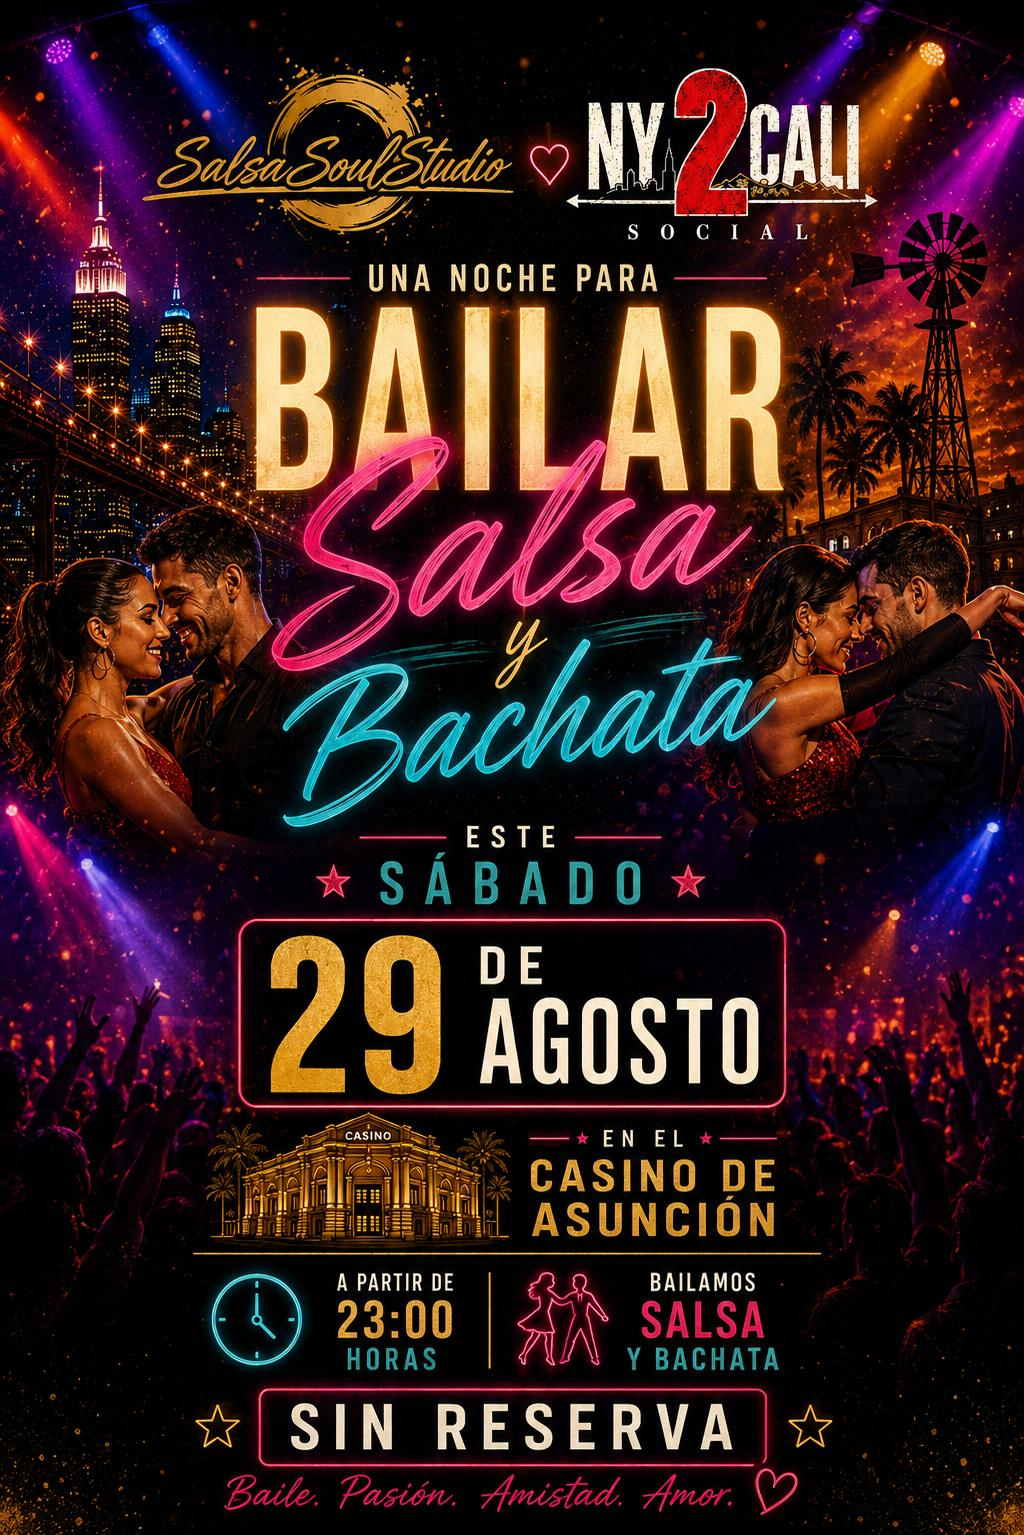
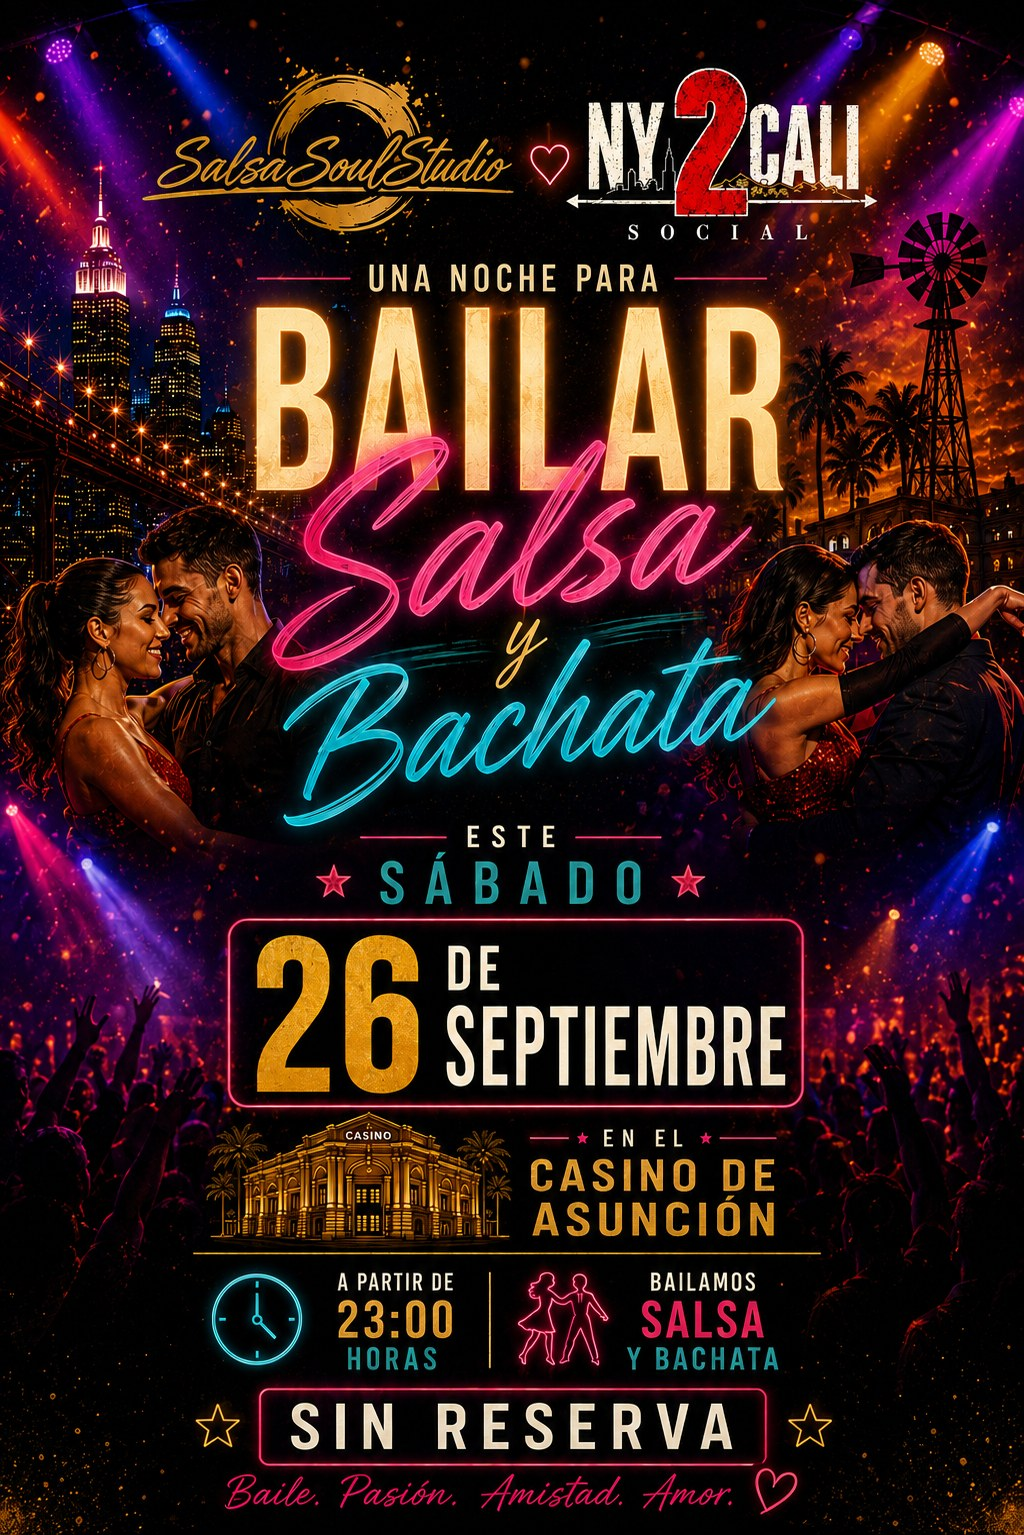
feat(sociales): afiche del social del sabado 26 de septiembre
Reemplaza el del 29 de agosto en el home y en /sociales, con el ?v= subido a 6
para saltar la cache de una semana de las imagenes. Fecha verificada: el 26/09
cae sabado.

El evento ya existia en la tabla SOCIALES pero con TIPO_VENTA vacio, y
airtable_client lo lee como 'MESA' por defecto: Dorita habria ofrecido reservar
mesa para un social que el afiche anuncia SIN RESERVA. Quedo en LIBRE, igual que
el del 29/08.

diff --git a/index.html b/index.html
@@ -410,10 +410,10 @@
   <div class="festival-wrapper" id="sociales">
     <div class="festival-inner">
       <div class="festival-poster" onclick="openLightbox(this)">
-        <img src="/sociales/ny2cali.jpg?v=5" alt="Social NY2CALI — Sábado 29 de agosto, Casino de Asunción" loading="lazy">
+        <img src="/sociales/ny2cali.jpg?v=6" alt="Social NY2CALI — Sábado 26 de septiembre, Casino de Asunción" loading="lazy">
       </div>
       <div class="festival-info">
-        <span class="badge">Sábado 29 de Agosto</span>
+        <span class="badge">Sábado 26 de Septiembre</span>
         <h2>Social NY2CALI</h2>
         <p class="fecha">Casino de Asunción · 23:00 hs</p>
         <div class="detalles">

diff --git a/sociales/index.html b/sociales/index.html
@@ -108,7 +108,7 @@
   <div class="hero">
     <h1>Sociales NY2CALI</h1>
     <p>Salsa · Bachata · Amigos · Buena vibra 💃🕺</p>
-    <img class="flyer" src="ny2cali.jpg?v=5" alt="Social NY2CALI · Sábado 29 de agosto · Casino de Asunción">
+    <img class="flyer" src="ny2cali.jpg?v=6" alt="Social NY2CALI · Sábado 26 de septiembre · Casino de Asunción">
     <div class="divider"></div>
   </div>
 
